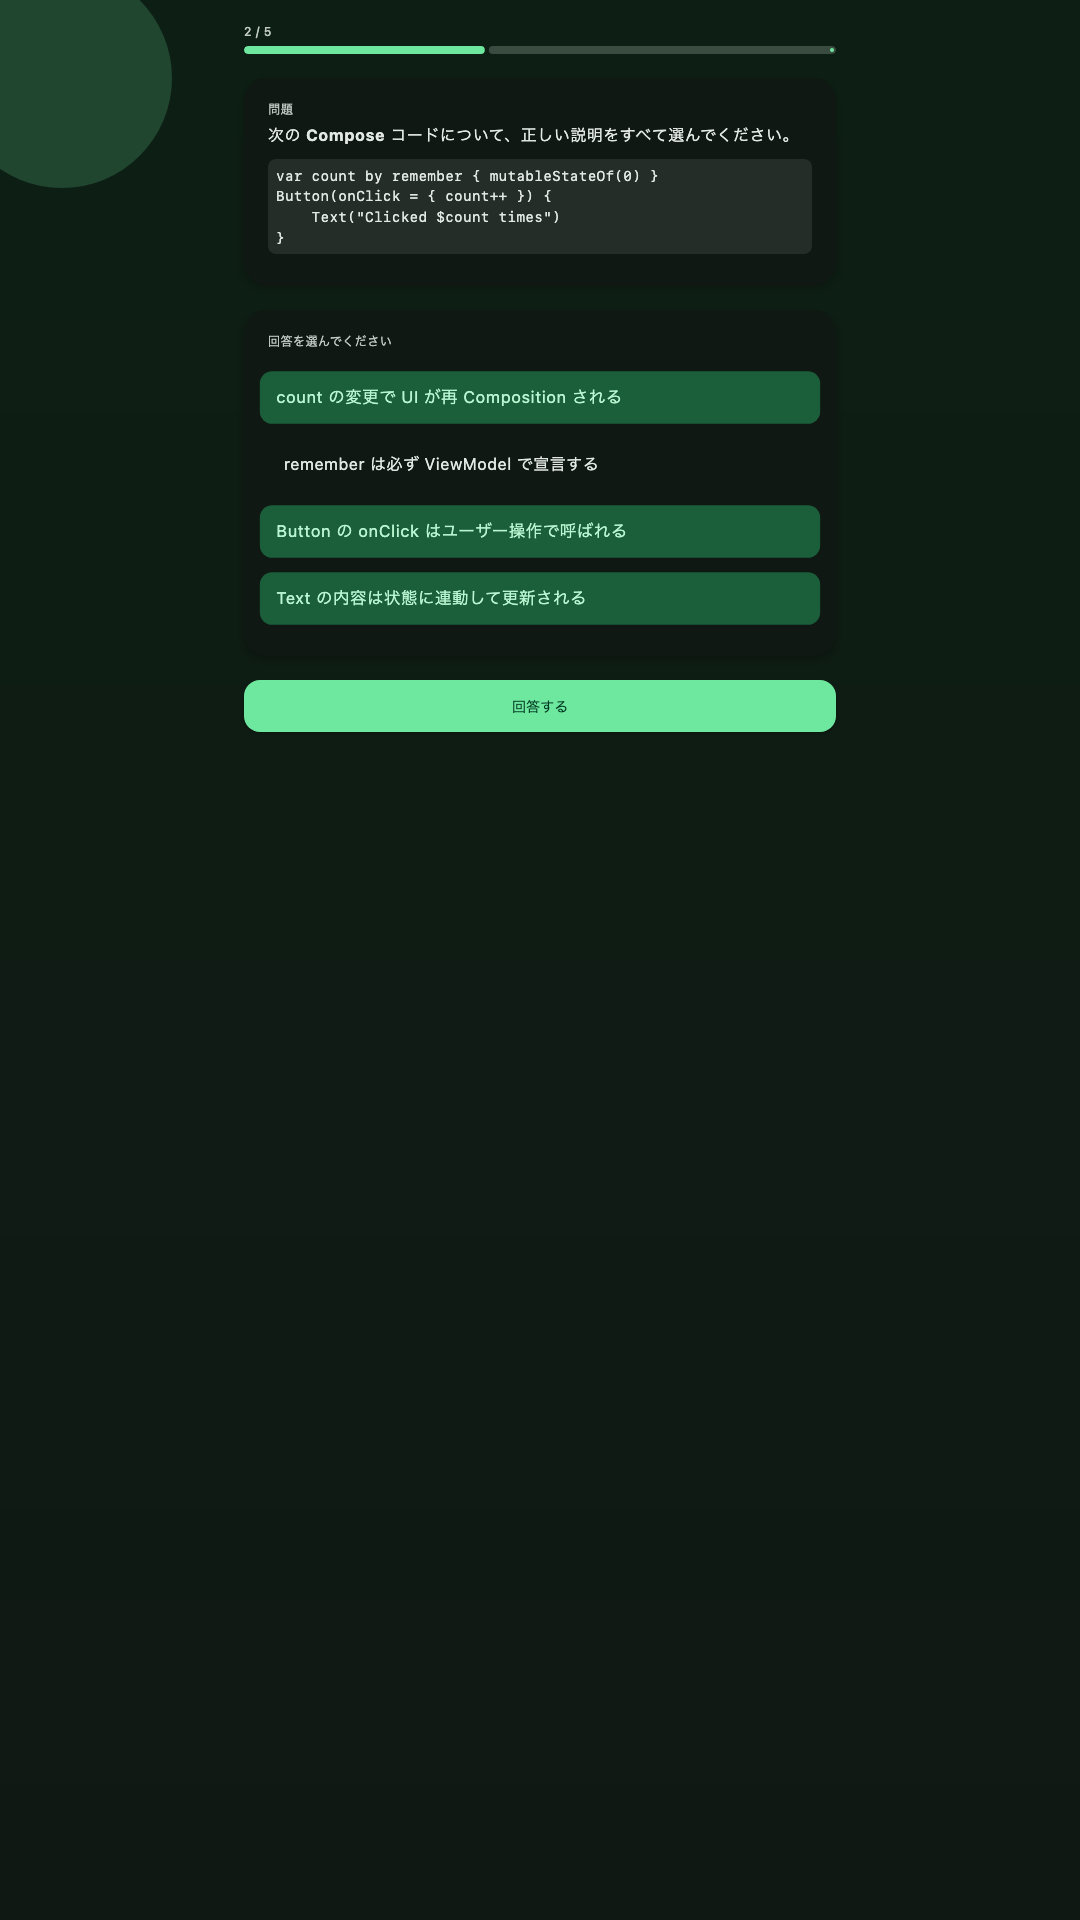
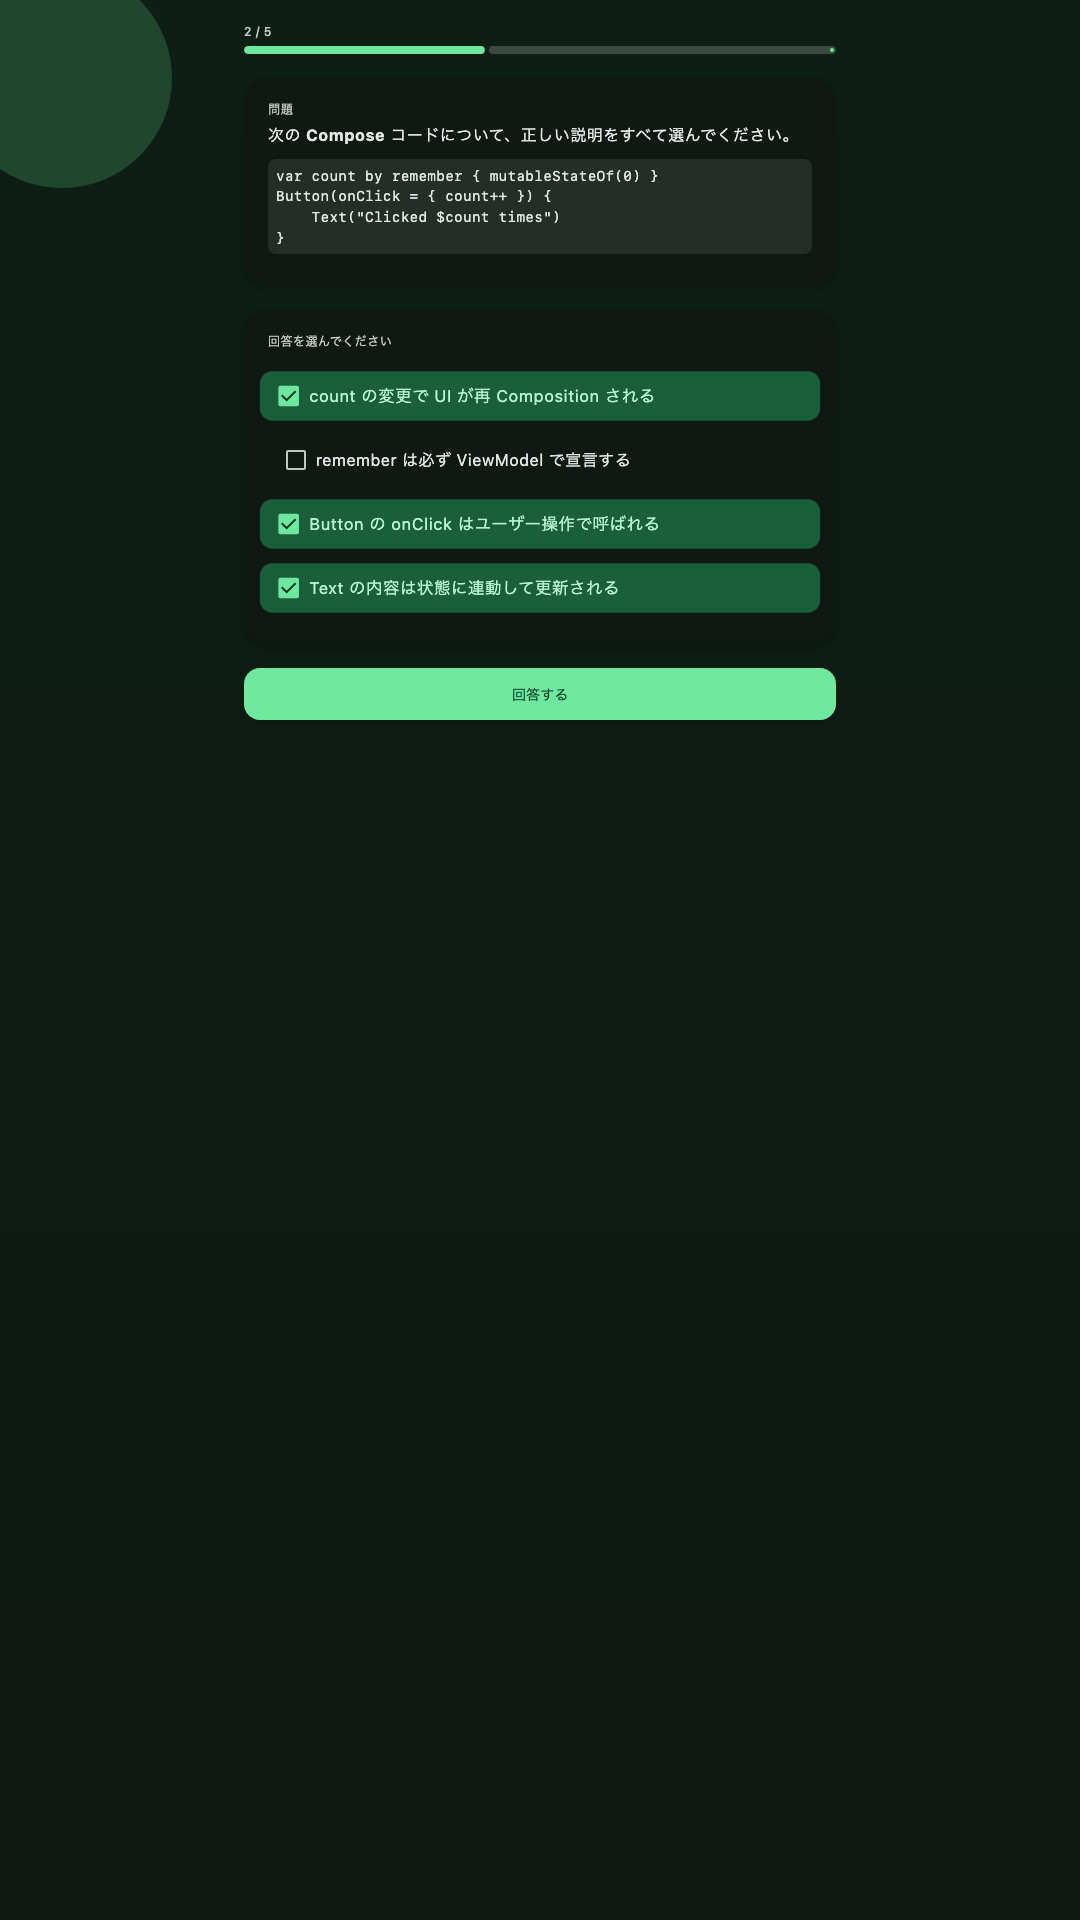
feat: 複数選択問題の選択肢左端にチェックボックスを追加する (#89) (#92)
* feat: add checkbox affordance for multiple-choice options (#89)

Show a large left-aligned checkbox on multiple-choice cards so participants can tell multi-select apart from single choice.

* fix: refresh multi-choice screenshot assets and test matcher (#89)

Use SemanticsMatcher for checkbox role assertion on Android and update captured PNGs after checkbox UI change.

---------

Changed region(s): [[0.2139, 0.1875, 0.7944, 0.4062]]

diff --git a/core/ui/src/commonMain/kotlin/jp/co/yumemi/quiz/droidkaigi/core/ui/components/ChoiceCard.kt b/core/ui/src/commonMain/kotlin/jp/co/yumemi/quiz/droidkaigi/core/ui/components/ChoiceCard.kt
@@ -1,22 +1,31 @@
 package jp.co.yumemi.quiz.droidkaigi.core.ui.components
 
 import androidx.compose.animation.animateColorAsState
+import androidx.compose.foundation.layout.Arrangement
+import androidx.compose.foundation.layout.Row
 import androidx.compose.foundation.layout.fillMaxWidth
+import androidx.compose.foundation.layout.heightIn
 import androidx.compose.foundation.layout.padding
+import androidx.compose.foundation.layout.size
+import androidx.compose.foundation.selection.toggleable
 import androidx.compose.foundation.shape.RoundedCornerShape
 import androidx.compose.material3.Card
 import androidx.compose.material3.CardDefaults
+import androidx.compose.material3.Checkbox
 import androidx.compose.material3.MaterialTheme
 import androidx.compose.material3.Text
 import androidx.compose.runtime.Composable
 import androidx.compose.runtime.getValue
+import androidx.compose.ui.Alignment
 import androidx.compose.ui.Modifier
 import androidx.compose.ui.draw.scale
 import androidx.compose.ui.platform.testTag
 import androidx.compose.ui.semantics.Role
+import androidx.compose.ui.semantics.hideFromAccessibility
 import androidx.compose.ui.semantics.role
 import androidx.compose.ui.semantics.selected
 import androidx.compose.ui.semantics.semantics
+import androidx.compose.ui.unit.dp
 import jp.co.yumemi.quiz.droidkaigi.core.ui.theme.QuizMotion
 import jp.co.yumemi.quiz.droidkaigi.core.ui.theme.QuizTokens
 
@@ -56,5 +65,64 @@ fun ChoiceCard(
             modifier = Modifier.padding(QuizTokens.spacingMedium),
             style = MaterialTheme.typography.bodyLarge,
         )
+    }
+}
+
+@Composable
+fun MultipleChoiceCard(
+    label: String,
+    selected: Boolean,
+    onClick: () -> Unit,
+    modifier: Modifier = Modifier,
+    enabled: Boolean = true,
+) {
+    val animScale = QuizMotion.animateSelectionScale(selected)
+    val containerColor by animateColorAsState(
+        targetValue = if (selected) {
+            MaterialTheme.colorScheme.primaryContainer
+        } else {
+            MaterialTheme.colorScheme.surface
+        },
+    )
+    Card(
+        modifier = modifier
+            .fillMaxWidth()
+            .padding(vertical = QuizTokens.spacingSmall)
+            .scale(animScale),
+        colors = CardDefaults.cardColors(containerColor = containerColor),
+        shape = RoundedCornerShape(QuizTokens.cornerMedium),
+    ) {
+        Row(
+            modifier = Modifier
+                .fillMaxWidth()
+                .heightIn(min = 48.dp)
+                .toggleable(
+                    value = selected,
+                    enabled = enabled,
+                    role = Role.Checkbox,
+                    onValueChange = { onClick() },
+                )
+                .testTag("choice:$label")
+                .padding(
+                    horizontal = QuizTokens.spacingMedium,
+                    vertical = QuizTokens.spacingSmall,
+                ),
+            verticalAlignment = Alignment.CenterVertically,
+            horizontalArrangement = Arrangement.spacedBy(QuizTokens.spacingSmall),
+        ) {
+            Checkbox(
+                checked = selected,
+                onCheckedChange = null,
+                enabled = enabled,
+                modifier = Modifier
+                    .size(QuizTokens.spacingLarge)
+                    .semantics { hideFromAccessibility() },
+            )
+            Text(
+                text = label,
+                modifier = Modifier.weight(1f),
+                style = MaterialTheme.typography.bodyLarge,
+            )
+        }
     }
 }

diff --git a/androidApp/src/androidTest/kotlin/jp/co/yumemi/quiz/droidkaigi/QuizLayoutScreenshotAndroidTest.kt b/androidApp/src/androidTest/kotlin/jp/co/yumemi/quiz/droidkaigi/QuizLayoutScreenshotAndroidTest.kt
@@ -4,7 +4,12 @@ import android.graphics.Bitmap
 import androidx.compose.runtime.CompositionLocalProvider
 import androidx.compose.runtime.key
 import androidx.compose.ui.graphics.asAndroidBitmap
+import androidx.compose.ui.semantics.Role
+import androidx.compose.ui.semantics.SemanticsProperties
+import androidx.compose.ui.test.SemanticsMatcher
+import androidx.compose.ui.test.assertIsDisplayed
 import androidx.compose.ui.test.captureToImage
+import androidx.compose.ui.test.hasTestTag
 import androidx.compose.ui.test.junit4.createComposeRule
 import androidx.compose.ui.test.onRoot
 import androidx.test.ext.junit.runners.AndroidJUnit4
@@ -81,6 +86,10 @@ class QuizLayoutScreenshotAndroidTest {
     @Test
     fun captureMultipleChoiceWithCodeBlock() {
         render(QuizPreviewFixtures.multipleChoiceState())
+        composeRule.onNode(
+            hasTestTag("choice:count の変更で UI が再 Composition される")
+                .and(SemanticsMatcher.expectValue(SemanticsProperties.Role, Role.Checkbox)),
+        ).assertIsDisplayed()
         capture("android-quiz-multiple-choice-code.png")
     }
 

diff --git a/feature/quiz/src/jvmTest/kotlin/jp/co/yumemi/quiz/droidkaigi/feature/quiz/quiz/QuizLayoutScreenshotJvmUiTest.kt b/feature/quiz/src/jvmTest/kotlin/jp/co/yumemi/quiz/droidkaigi/feature/quiz/quiz/QuizLayoutScreenshotJvmUiTest.kt
@@ -2,8 +2,12 @@ package jp.co.yumemi.quiz.droidkaigi.feature.quiz.quiz
 
 import androidx.compose.runtime.CompositionLocalProvider
 import androidx.compose.runtime.key
+import androidx.compose.ui.semantics.Role
+import androidx.compose.ui.semantics.SemanticsProperties
 import androidx.compose.ui.test.ExperimentalTestApi
+import androidx.compose.ui.test.SemanticsMatcher
 import androidx.compose.ui.test.assertIsDisplayed
+import androidx.compose.ui.test.hasTestTag
 import androidx.compose.ui.test.onNodeWithText
 import androidx.compose.ui.test.runDesktopComposeUiTest
 import jp.co.yumemi.quiz.droidkaigi.core.ui.locale.LocalAppLocale
@@ -37,6 +41,10 @@ class QuizLayoutScreenshotJvmUiTest {
             }
         }
         onNodeWithText("2 / 5").assertIsDisplayed()
+        onNode(
+            hasTestTag("choice:count の変更で UI が再 Composition される")
+                .and(SemanticsMatcher.expectValue(SemanticsProperties.Role, Role.Checkbox)),
+        ).assertIsDisplayed()
         captureSurfacePng("04-quiz-multiple-choice-code.png")
     }
 

diff --git a/feature/quiz/src/commonMain/kotlin/jp/co/yumemi/quiz/droidkaigi/feature/quiz/quiz/QuizScreen.kt b/feature/quiz/src/commonMain/kotlin/jp/co/yumemi/quiz/droidkaigi/feature/quiz/quiz/QuizScreen.kt
@@ -37,6 +37,7 @@ import jp.co.yumemi.quiz.droidkaigi.core.domain.model.Question
 import jp.co.yumemi.quiz.droidkaigi.core.domain.model.Reorder
 import jp.co.yumemi.quiz.droidkaigi.core.domain.model.SingleChoice
 import jp.co.yumemi.quiz.droidkaigi.core.ui.components.ChoiceCard
+import jp.co.yumemi.quiz.droidkaigi.core.ui.components.MultipleChoiceCard
 import jp.co.yumemi.quiz.droidkaigi.core.ui.components.QuizAnswerFeedbackOverlay
 import jp.co.yumemi.quiz.droidkaigi.core.ui.components.QuizMarkdownText
 import jp.co.yumemi.quiz.droidkaigi.core.ui.components.QuizPrimaryButton
@@ -293,7 +294,7 @@ private fun QuestionAnswerArea(
         }
 
         is MultipleChoice -> q.options.forEach { option ->
-            ChoiceCard(
+            MultipleChoiceCard(
                 label = option.label,
                 selected = option.id in selectedMultipleIds,
                 onClick = { onToggleMultiple(option.id) },
